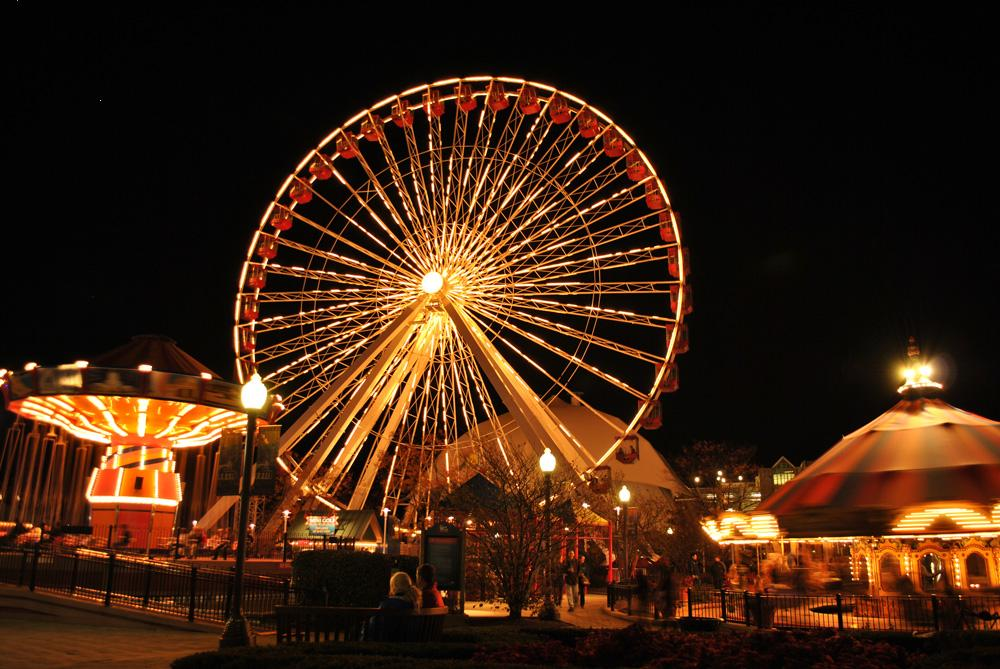
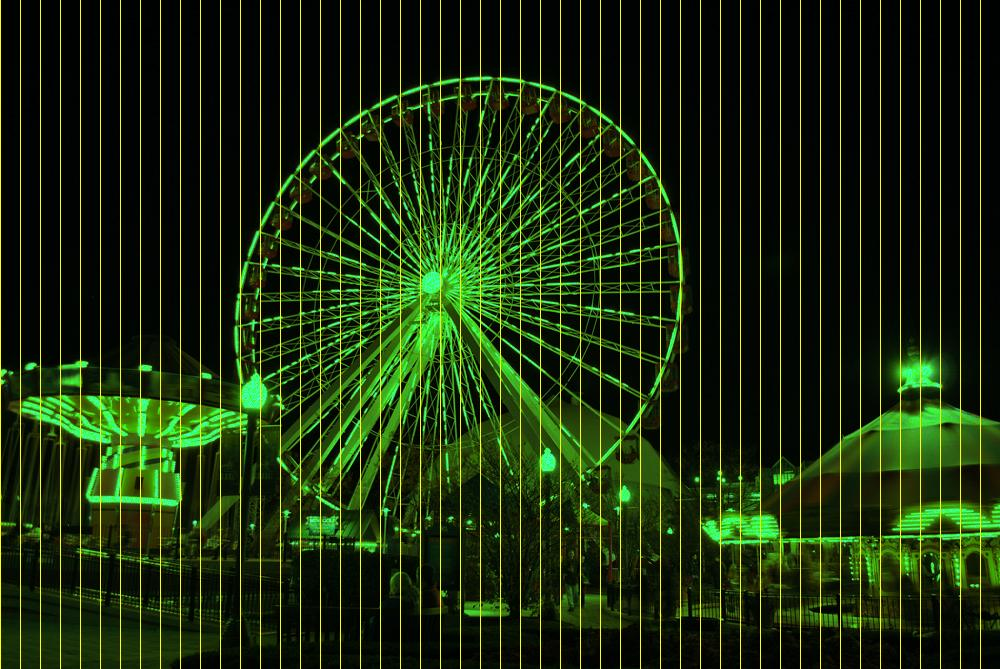
colorlabs 4/6

diff --git a/ColorLabs17/TestPicture17.java b/ColorLabs17/TestPicture17.java
@@ -45,10 +45,10 @@ public class TestPicture17
      pixels = ferris1.getPixels();
     
      //how many pixels or how large array
-    System.out.println("This is a large array"+pixels.length  );
+        //System.out.println("This is a large array"+pixels.length  );
 
 
-    /**/
+    /*  
         //access each index, array notation
     System.out.println(pixels[17]);
     //access each pixel, pic.method.getPixel
@@ -64,69 +64,91 @@ public class TestPicture17
     
     spot.setColor(Color.yellow); 
     ferris1.explore();
-/*
+
     pixels[17].setColor(Color.blue);
     spot.setColor(new Color(252,252,252));
     pixels[500034].setColor(Color.blue);
 
     ferris1.explore();
-/*
+    */
    // loop to access indexes of array or collection
-
+    /*
     //for each loop spot  is a ?
-    for (Pixel spot : pixels)
-    System.out.println( spot );
-
-
-   
- /**/
-
- /**
-  * Method to clear red from picture
-  * @param none
-  * @return none
-  */
- /*
-    for (Pixel pixelObj : pixels)
-        {
-            //set the red value of the current pixel to the new value
-           
-
-        }
-    ferris1.explore();
-    
-/**/
- /**
-  * Method to reduce red from picture by a factor of n
-  * @param none
-  * @return none
-  */
-
-/*
-int value;
-final double  FACTOR = .5;
-    for (Pixel pixelObj : pixels)
+    int red;
+    for (Pixel spot1 : pixels)
     {
-
-        //get the redvalue
-        value = pixelObj.getRed();
-        //System.out.println(value);
-
-        //decrease the red value by 50%
-        
-        //set the red value of the current pixel to the new value
-        
-
+        //System.out.println( spot );
+        red = spot1.getRed();
+        red = (int)(red*.25); 
+        spot1.setRed(red); 
+    } 
+    
+    int blue; 
+    for (Pixel spot1 : pixels)
+    {
+        //System.out.println( spot );
+        blue = spot1.getBlue();
+        blue = (int)(Math.random()*  blue); 
+        spot1.setBlue(blue); 
     }
-    // use new picture when changing or it will make changes to 
-    // pic you already changed
-    ferris1.explore();
-    ferris2.explore();
-
-  /**/ 
-    //write/save a picture as a file
-    ferris1.write("images/ferris11.jpg");
-
-    /**/
+    
+         */
+    int green;
+    int count = 0; 
+    for (Pixel spot1 : pixels)
+    {
+        if (count%20 == 0)
+            spot1.setColor(Color.yellow); 
+        count++; 
+    }
+    ferris1.explore(); 
+    
+         /**
+          * Method to clear red from picture
+          * @param none
+          * @return none
+          */
+         /*
+            for (Pixel pixelObj : pixels)
+                {
+                    //set the red value of the current pixel to the new value
+                   
+        
+                }
+            ferris1.explore();
+            
+        /**/
+         /**
+          * Method to reduce red from picture by a factor of n
+          * @param none
+          * @return none
+          */
+        
+        /*
+        int value;
+        final double  FACTOR = .5;
+            for (Pixel pixelObj : pixels)
+            {
+        
+                //get the redvalue
+                value = pixelObj.getRed();
+                //System.out.println(value);
+        
+                //decrease the red value by 50%
+                
+                //set the red value of the current pixel to the new value
+                
+        
+            }
+            // use new picture when changing or it will make changes to 
+            // pic you already changed
+            ferris1.explore();
+            ferris2.explore();
+        
+          /**/ 
+            //write/save a picture as a file
+            ferris1.write("images/ferris11.jpg");
+        
+            /**/
   }//main
 }//class

diff --git a/ColorLabs17/colorLabs.java b/ColorLabs17/colorLabs.java
@@ -1,0 +1,105 @@
+import java.awt.*; 
+import java.util.*; 
+import java.util.List;
+
+public class colorLabs 
+{
+    public static void main (String [] args)
+    {
+        Picture p = new Picture("images\\swan.jpg");
+        Picture p2 = new Picture("images\\swan.jpg");
+        Picture p3 = new Picture("images\\swan.jpg");
+        Picture p4 = new Picture("images\\swan.jpg");
+        Picture p5 = new Picture("images\\swan.jpg");
+        Picture p6 = new Picture("images\\swan.jpg");
+        
+        p.explore(); 
+        Pixel [] pixels; 
+        
+        //#1: adjusting blue
+        /*
+        pixels = p.getPixels(); 
+        
+        int blue; 
+        for (Pixel spot : pixels)
+        {
+            blue = spot.getBlue(); 
+            blue *= 1.25; 
+            spot.setBlue(blue); 
+        }
+        
+        p.explore(); 
+        */
+       
+        //#2: negate
+        /*
+        pixels = p2.getPixels(); 
+        
+        int blue, red, green; 
+        for (Pixel spot : pixels)
+        {
+            blue = spot.getBlue(); 
+            blue = 225 - blue; 
+            spot.setBlue(blue); 
+        }
+        for (Pixel spot : pixels)
+        {
+            red = spot.getRed(); 
+            red = 225 - red; 
+            spot.setRed(red); 
+        }
+        for (Pixel spot : pixels)
+        {
+            green = spot.getGreen(); 
+            green = 225 - green; 
+            spot.setGreen(green); 
+        }
+        
+        p2.explore(); 
+        */
+       
+       
+        //#3: grayscale 
+        /*
+        pixels = p3.getPixels(); 
+        
+        int grey;
+        for (Pixel spot : pixels)
+        {
+            grey = (spot.getBlue() + spot.getRed() + spot.getGreen())/3;
+            spot.setBlue(grey); 
+            spot.setGreen(grey);
+            spot.setRed(grey); 
+        }
+        
+        p3.explore();
+        */
+       
+        //#4: darken
+        /*
+        pixels = p4.getPixels(); 
+        
+        int red, green, blue; 
+        for (Pixel spot : pixels)
+        {
+            blue = spot.getBlue(); 
+            blue *= .5; 
+            spot.setBlue(blue); 
+        }
+        for (Pixel spot : pixels)
+        {
+            red = spot.getRed(); 
+            red *= .5; 
+            spot.setRed(red); 
+        }
+        for (Pixel spot : pixels)
+        {
+            green = spot.getGreen(); 
+            green *= .5; 
+            spot.setGreen(green); 
+        }
+        
+        p4.explore(); 
+        */ 
+    }
+}
